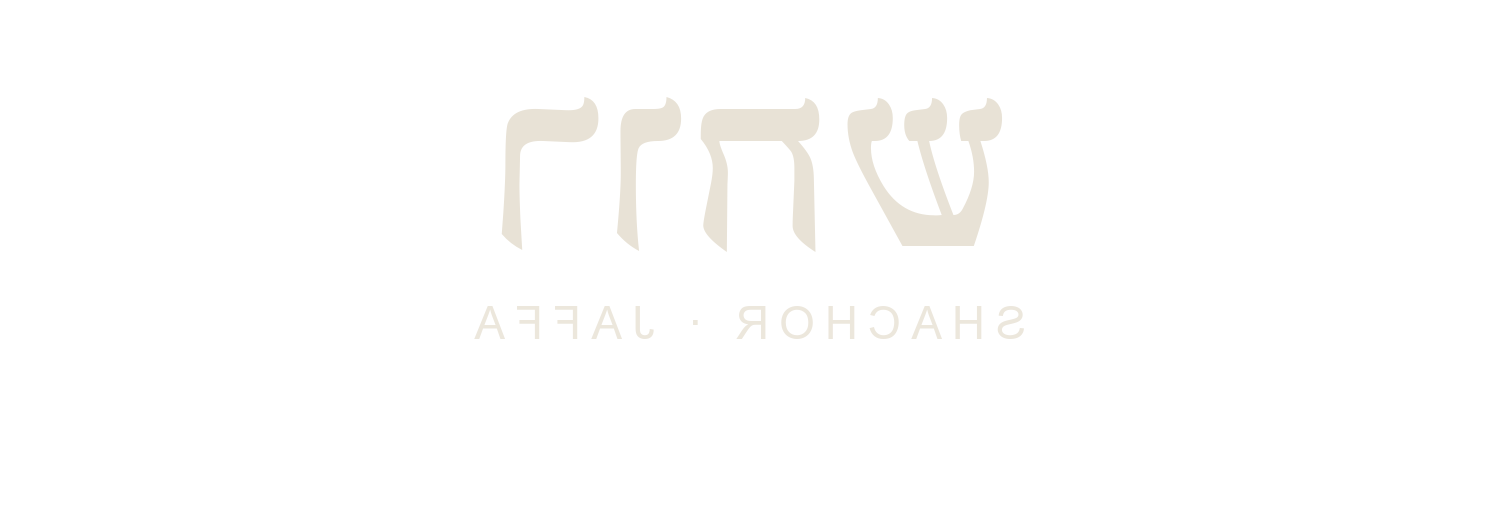
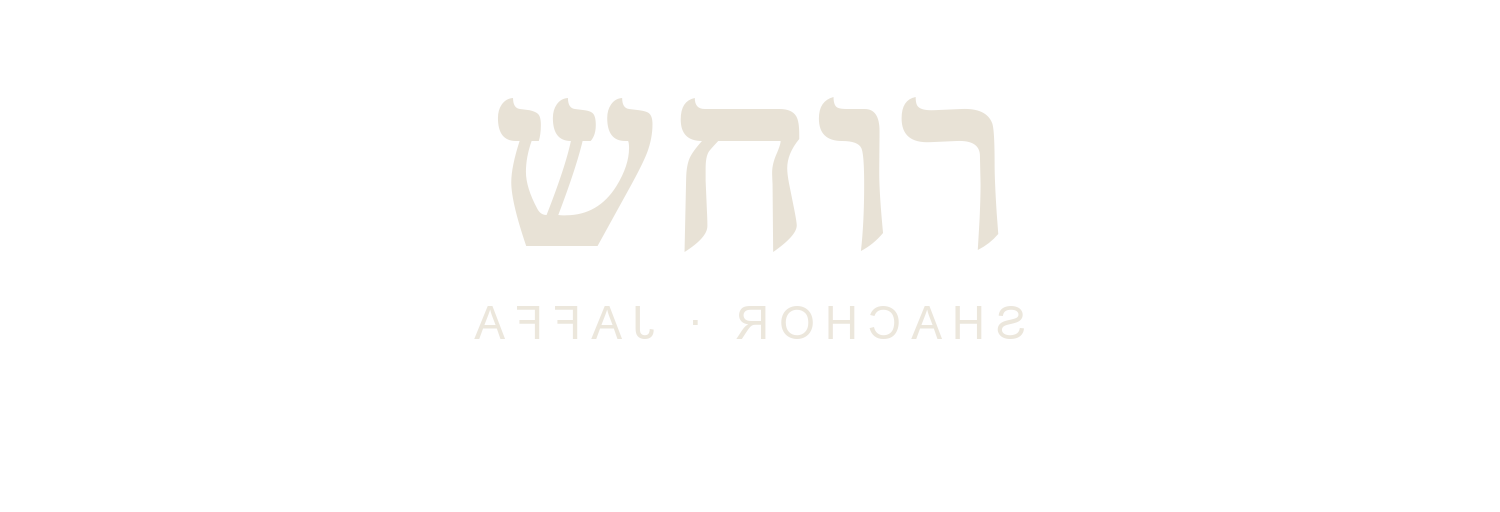
Надпись справа налево + движок скролл-плёнки
Иврит читался наоборот: библиотека раскладывает ивритскую строку и латиницу
по-разному, и общее зеркало текстуры чинило одну строку, ломая другую.
Развёл их по слоям — латиница зеркалится отдельно, иврит остаётся как есть.

Страница переведена с реалтайма на плёнку: src/film/Film.tsx рисует кадры
из Cycles на канве по позиции прокрутки. По плейбуку — DPR не выше 1.5,
загрузка пачками по 8, ближайший загруженный кадр вместо ожидания,
сглаживание позиции, скролл читается и не перехватывается.

render/sequence.sh гонит секвенцию, render/pack_frames.py жмёт её в webp.

Changed region(s): [[0.3067, 0.1875, 0.6747, 0.5]]

diff --git a/src/App.tsx b/src/App.tsx
@@ -1,60 +1,40 @@
-import { lazy, Suspense, useEffect, useRef, useState } from 'react'
+import { useEffect, useRef, useState } from 'react'
 import { COPY, type Locale } from './content/copy'
-import { ACCENTS, FONT_PAIRS, Tweaks, type AccentKey, type FontPair } from './ui/Tweaks'
-import type { SceneSettings } from './scene/Scene'
-
-// Сцена грузится отдельным чанком и только если WebGL есть.
-const Scene = lazy(() => import('./scene/Scene').then((m) => ({ default: m.Scene })))
+import { Film } from './film/Film'
 
 /**
- * Страница намеренно пустая: ничего, кроме сцены и одной строки текста.
- * Контент витрины (меню, зал, бронь) вернётся позже — сейчас проверяется
- * только одно: держит ли кадр как фотография и как читается хореография.
- * Прокрутка существует не ради контента, а ради времени: она и есть плёнка.
+ * Первый экран — скролл-плёнка: кадры, отрендеренные в Cycles, крутятся прокруткой.
+ * Контента на странице пока нет намеренно: сначала должен держать кадр.
  */
+const FRAME_COUNT = 36
 const SCROLL_SCREENS = 5
 
-function hasWebGL(): boolean {
-  try {
-    const c = document.createElement('canvas')
-    return !!(c.getContext('webgl2') || c.getContext('webgl'))
-  } catch {
-    return false
-  }
-}
-
-const prefersReducedMotion = () => window.matchMedia('(prefers-reduced-motion: reduce)').matches
+const prefersReducedMotion = () =>
+  typeof window !== 'undefined' && window.matchMedia('(prefers-reduced-motion: reduce)').matches
 
 export default function App() {
   const [locale, setLocale] = useState<Locale>('he')
-  const [paused, setPaused] = useState(prefersReducedMotion)
-  const [font, setFont] = useState<FontPair>('serif')
-  const [accent, setAccent] = useState<AccentKey>('copper')
-  const [settings, setSettings] = useState<SceneSettings>({ steam: 1, bloom: 0.55, grain: 0.03, focus: 0.03 })
-  const [webgl] = useState(hasWebGL)
+  const [paused] = useState(prefersReducedMotion)
   const [progress, setProgress] = useState(0)
 
-  const scrollRef = useRef(0)
+  const progressRef = useRef(0)
   const t = COPY[locale]
 
-  // Прогресс прокрутки 0..1 по всей длине страницы — им живёт вся хореография.
-  // ?shot=0.42 замораживает прогресс на заданной точке: так кадры хореографии
-  // снимаются детерминированно, без ручной прокрутки.
   useEffect(() => {
+    let raf = 0
     const frozen = new URLSearchParams(window.location.search).get('shot')
     if (frozen !== null) {
       const p = Math.min(1, Math.max(0, Number(frozen) || 0))
-      scrollRef.current = p
+      progressRef.current = p
       setProgress(p)
       return
     }
-    let raf = 0
     const onScroll = () => {
       cancelAnimationFrame(raf)
       raf = requestAnimationFrame(() => {
         const travel = document.documentElement.scrollHeight - window.innerHeight
         const p = travel > 0 ? Math.min(1, Math.max(0, window.scrollY / travel)) : 0
-        scrollRef.current = p
+        progressRef.current = p
         setProgress(p)
       })
     }
@@ -73,65 +53,43 @@ export default function App() {
     document.documentElement.dir = t.dir
   }, [locale, t.dir])
 
-  useEffect(() => {
-    const root = document.documentElement
-    root.style.setProperty('--accent', ACCENTS[accent].value)
-    root.style.setProperty('--font-display', FONT_PAIRS[font].display)
-    root.style.setProperty('--font-body', FONT_PAIRS[font].body)
-  }, [accent, font])
-
-  // Титул уходит, как только начинается движение: дальше кадр должен быть чистым.
-  const titleOpacity = Math.max(0, 1 - progress / 0.13)
+  // Титул держится на первом экране и растворяется, как только пошло движение.
+  const titleOpacity = Math.max(0, 1 - progress / 0.12)
 
   return (
     <>
-      <div className="fixed inset-0 -z-10">
-        {webgl ? (
-          <Suspense fallback={<div className="h-full w-full bg-[#0a0908]" />}>
-            <Scene paused={paused} settings={settings} scrollRef={scrollRef} />
-          </Suspense>
-        ) : (
-          <div
-            className="h-full w-full"
-            style={{ background: 'radial-gradient(120% 80% at 22% 18%, #241a12 0%, #120e0b 45%, #0a0908 100%)' }}
-          />
-        )}
-      </div>
+      <Film count={FRAME_COUNT} progressRef={progressRef} paused={paused} />
 
-      {/* Титул липнет к первому экрану и растворяется при первом же движении колеса */}
       <div
-        className="pointer-events-none fixed inset-0 flex items-center px-[6vw]"
-        style={{ opacity: titleOpacity, transition: 'opacity 120ms linear' }}
+        className="pointer-events-none fixed inset-0 flex items-center px-[7vw]"
+        style={{ opacity: titleOpacity, transition: 'opacity 140ms linear' }}
       >
-        <div className="ms-auto max-w-[42ch] text-end">
-          <h1
-            className="text-[clamp(3.2rem,11vw,8rem)] leading-[0.9] text-[#efe7db]"
-            style={{ fontFamily: 'var(--font-display)' }}
-          >
+        <div className="ms-auto max-w-[36ch] text-end">
+          <h1 className="text-[clamp(2.6rem,8vw,6rem)] leading-[0.95] text-[#efe7db]" style={{ fontFamily: 'var(--font-display)' }}>
             {t.brand}
           </h1>
-          <p className="mt-4 text-[clamp(1rem,2.2vw,1.5rem)] text-[#a99f92]" style={{ fontFamily: 'var(--font-body)' }}>
+          <p className="mt-4 text-[clamp(0.95rem,2vw,1.35rem)] text-[#a99f92]" style={{ fontFamily: 'var(--font-body)' }}>
             {t.heroLine}
           </p>
         </div>
       </div>
 
-      {/* Полоса прокрутки: пустая по содержанию, нужна только чтобы дать сцене время */}
+      {/* полоса прокрутки: содержания нет, она нужна плёнке как время */}
       <main style={{ height: `${SCROLL_SCREENS * 100}svh` }} aria-hidden="true" />
 
-      <Tweaks
-        locale={locale}
-        setLocale={setLocale}
-        paused={paused}
-        setPaused={setPaused}
-        settings={settings}
-        setSettings={setSettings}
-        font={font}
-        setFont={setFont}
-        accent={accent}
-        setAccent={setAccent}
-        labels={{ tweaks: t.tweaks, pause: t.pause, play: t.play }}
-      />
+      <div className="fixed bottom-4 start-4 flex gap-1 text-xs">
+        {(['he', 'ru'] as Locale[]).map((l) => (
+          <button
+            key={l}
+            onClick={() => setLocale(l)}
+            className={`border border-white/15 px-2 py-1 uppercase tracking-wider ${
+              l === locale ? 'bg-white/15 text-white' : 'text-white/55'
+            }`}
+          >
+            {l}
+          </button>
+        ))}
+      </div>
     </>
   )
 }

diff --git a/src/film/Film.tsx b/src/film/Film.tsx
@@ -1,0 +1,132 @@
+import { useEffect, useRef, useState } from 'react'
+
+/**
+ * Скролл-плёнка: кадры, отрендеренные в Cycles, крутятся прокруткой.
+ *
+ * Реализм здесь берётся не из кода, а из рендера — браузеру остаётся только
+ * рисовать нужный кадр на канве. Скролл при этом остаётся родным: движок его
+ * ЧИТАЕТ, а не перехватывает, поэтому ничего не ломается ни в RTL, ни на тач-устройствах.
+ *
+ * Правила взяты из docs/scroll-film-playbook.md: DPR не выше 1.5, загрузка
+ * пачками, ближайший загруженный кадр вместо ожидания, сглаживание позиции.
+ */
+
+interface Props {
+  /** сколько кадров в секвенции */
+  count: number
+  /** прогресс 0..1, за которым следует плёнка */
+  progressRef: React.RefObject<number>
+  /** база пути к кадрам */
+  base?: string
+  paused?: boolean
+}
+
+const BATCH = 8
+const SMOOTH = 0.16
+const DPR_CAP = 1.5
+
+const framePath = (base: string, i: number) => `${base}frame-${String(i).padStart(3, '0')}.webp`
+
+export function Film({ count, progressRef, base, paused = false }: Props) {
+  const canvas = useRef<HTMLCanvasElement>(null)
+  const frames = useRef<(HTMLImageElement | null)[]>([])
+  const current = useRef(0)
+  const [ready, setReady] = useState(0)
+
+  const root = base ?? `${import.meta.env.BASE_URL}film/`
+
+  // ── загрузка пачками, от начала к концу ────────────────────────────────
+  useEffect(() => {
+    frames.current = new Array(count).fill(null)
+    let cancelled = false
+    let loaded = 0
+
+    const loadBatch = async (start: number) => {
+      if (cancelled || start >= count) return
+      await Promise.all(
+        Array.from({ length: Math.min(BATCH, count - start) }, (_, k) => {
+          const i = start + k
+          return new Promise<void>((resolve) => {
+            const img = new Image()
+            img.decoding = 'async'
+            img.onload = () => {
+              frames.current[i] = img
+              loaded += 1
+              if (!cancelled) setReady(loaded)
+              resolve()
+            }
+            img.onerror = () => resolve()
+            img.src = framePath(root, i)
+          })
+        }),
+      )
+      loadBatch(start + BATCH)
+    }
+    loadBatch(0)
+
+    return () => {
+      cancelled = true
+    }
+  }, [count, root])
+
+  // ── отрисовка ──────────────────────────────────────────────────────────
+  useEffect(() => {
+    const el = canvas.current
+    if (!el) return
+    const ctx = el.getContext('2d', { alpha: false })
+    if (!ctx) return
+
+    const resize = () => {
+      const dpr = Math.min(DPR_CAP, window.devicePixelRatio || 1)
+      el.width = Math.round(window.innerWidth * dpr)
+      el.height = Math.round(window.innerHeight * dpr)
+    }
+    resize()
+    window.addEventListener('resize', resize)
+
+    /** Ближайший уже загруженный кадр: ждать целевой — значит показывать дыру. */
+    const nearest = (i: number) => {
+      const f = frames.current
+      if (f[i]) return f[i]
+      for (let d = 1; d < f.length; d++) {
+        if (f[i - d]) return f[i - d]
+        if (f[i + d]) return f[i + d]
+      }
+      return null
+    }
+
+    /** cover-фит вручную: канва и кадр редко совпадают по соотношению */
+    const drawCover = (img: HTMLImageElement) => {
+      const cw = el.width
+      const ch = el.height
+      const scale = Math.max(cw / img.naturalWidth, ch / img.naturalHeight)
+      const w = img.naturalWidth * scale
+      const h = img.naturalHeight * scale
+      ctx.drawImage(img, (cw - w) / 2, (ch - h) / 2, w, h)
+    }
+
+    let raf = 0
+    const tick = () => {
+      raf = requestAnimationFrame(tick)
+      const target = (progressRef.current ?? 0) * (count - 1)
+      // сглаживание: скачок кадра на резком колесе читается рывком
+      current.current += (target - current.current) * (paused ? 1 : SMOOTH)
+      const img = nearest(Math.round(current.current))
+      if (img) drawCover(img)
+    }
+    tick()
+
+    return () => {
+      cancelAnimationFrame(raf)
+      window.removeEventListener('resize', resize)
+    }
+  }, [count, progressRef, paused])
+
+  return (
+    <>
+      <canvas ref={canvas} className="fixed inset-0 h-full w-full" aria-hidden="true" />
+      {/* пока не доехала первая пачка — держим ровный тёмный фон, а не белую вспышку */}
+      {ready < 3 && <div className="fixed inset-0 bg-[#0b0a09]" aria-hidden="true" />}
+    </>
+  )
+}

diff --git a/render/make_decal.py b/render/make_decal.py
@@ -32,14 +32,20 @@ bbox = d.textbbox((0, 0), text, font=heb)
 d.text(((W - (bbox[2] - bbox[0])) / 2 - bbox[0], H * 0.34 - (bbox[3] - bbox[1]) / 2 - bbox[1]),
        text, font=heb, fill=ink + (255,))
 
-# латинская строка вразрядку
+# Латинская строка — отдельным слоем, который зеркалится перед наложением.
+# Иврит и латиницу движок раскладывает по-разному, и на стенке одна из строк
+# всегда оказывалась перевёрнутой. Разводим их по слоям и правим только латынь.
+lat_layer = Image.new("RGBA", (W, H), (0, 0, 0, 0))
+dl = ImageDraw.Draw(lat_layer)
 sp = 10
-total = sum(d.textlength(ch, font=lat) + sp for ch in LAT) - sp
+total = sum(dl.textlength(ch, font=lat) + sp for ch in LAT) - sp
 x = (W - total) / 2
 y = H * 0.58
 for ch in LAT:
-    d.text((x, y), ch, font=lat, fill=ink + (215,))
-    x += d.textlength(ch, font=lat) + sp
+    dl.text((x, y), ch, font=lat, fill=ink + (215,))
+    x += dl.textlength(ch, font=lat) + sp
+lat_layer = lat_layer.transpose(Image.FLIP_LEFT_RIGHT)
+img.alpha_composite(lat_layer)
 
 # выедание обжигом: рваная альфа вместо ровной заливки
 random.seed(7)
@@ -59,9 +65,8 @@ for j in range(H):
             eaten = 0.5 + 0.5 * min(1.0, max(0.0, (k - 0.32) / 0.3))
             a[i, j] = int(a[i, j] * eaten)
 
-# На выпуклой стенке текстура читается с обратной стороны, поэтому зеркалим
-# её здесь: так надпись остаётся правильной независимо от знака UV в нодах.
-img = img.transpose(Image.FLIP_LEFT_RIGHT)
+# Зеркалить текстуру НЕ нужно: знак U в материале уже разворачивает её на
+# стенке. С двойной инверсией слово читалось наоборот — «רוחש» вместо «שחור».
 
 os.makedirs(os.path.dirname(OUT), exist_ok=True)
 img.save(OUT)

diff --git a/render/pack_frames.py b/render/pack_frames.py
@@ -1,0 +1,32 @@
+# -*- coding: utf-8 -*-
+"""PNG-секвенция из Cycles → webp в public/film.
+
+Бюджет из плейбука: кадр ≤ 50 КБ, вся плёнка ≤ 5 МБ. Тёмная сцена жмётся
+отлично, поэтому качество можно держать высоким.
+
+  python render/pack_frames.py D:/tmp/cafe-seq 1100
+"""
+import os, sys, glob
+from PIL import Image
+
+SRC = sys.argv[1] if len(sys.argv) > 1 else "D:/tmp/cafe-seq"
+WIDTH = int(sys.argv[2]) if len(sys.argv) > 2 else 1100
+DST = os.path.join(os.path.dirname(os.path.abspath(__file__)), "..", "public", "film")
+
+os.makedirs(DST, exist_ok=True)
+files = sorted(glob.glob(os.path.join(SRC, "frame-*.png")))
+if not files:
+    print("нет кадров в", SRC)
+    raise SystemExit(1)
+
+total = 0
+for i, f in enumerate(files):
+    im = Image.open(f).convert("RGB")
+    if im.width != WIDTH:
+        im = im.resize((WIDTH, round(im.height * WIDTH / im.width)), Image.LANCZOS)
+    out = os.path.join(DST, f"frame-{i:03d}.webp")
+    im.save(out, "WEBP", quality=82, method=6)
+    total += os.path.getsize(out)
+
+print(f"{len(files)} кадров, {total // 1024} КБ всего, {total // 1024 // len(files)} КБ на кадр")
+print("→", os.path.normpath(DST))
